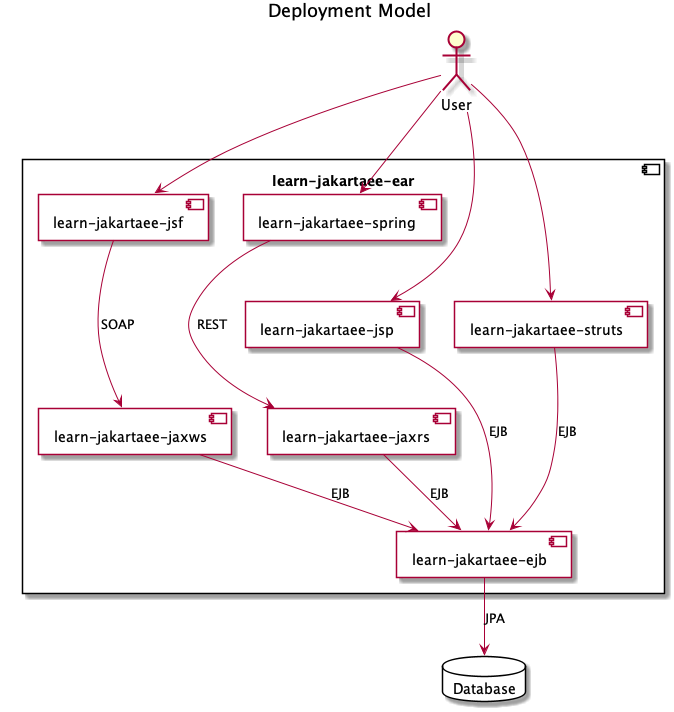
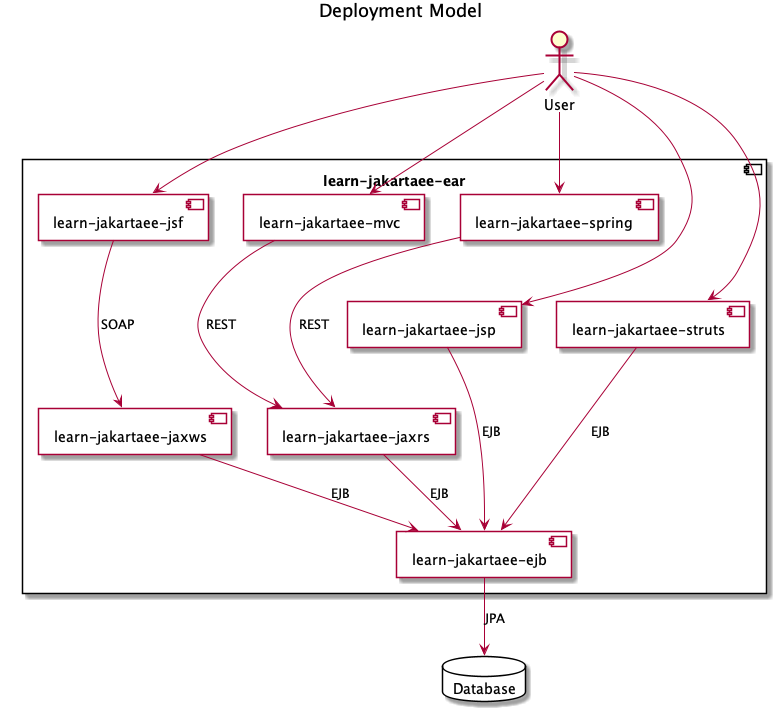
Plan for an mvc project

diff --git a/README.md b/README.md
@@ -21,19 +21,6 @@ Here are the sub projects as shown in this (To-Be) deployment diagram:
 
 ![alt text](learn-jakartaee-docs/deployment.png "Deployment Diagram")
 
-Web Service Examples
-====================
-
-## [`learn-jakartaee-jaxrs`](./learn-jakartaee-jaxrs)
-
-This Microprofile 5 project is a super simple REST API containing just a ping service.
-But at least it shows how Swagger UI is built-in to Open Liberty.
-
-## [`learn-jakartaee-jaxws`](./learn-jakartaee-jaxws)
-
-This project implements a SOAP-based Web Service. It uses a WSDL-first philosphy and
-includes a projects to creates the stubs that is used in server and client project.
-
 Web Application Examples
 ========================
 
@@ -63,6 +50,10 @@ Faces. Likewise, it features:
 3. Layout with navigation bar and side menus using Twitter Bootstrap CSS
 4. JSF Form Validation
 
+## [`learn-jakartaee-mvc`](./learn-jakartaee-mvc)
+
+TODO
+
 ## [`learn-jakartaee-spring`](./learn-jakartaee-spring)
 
 I did not want to include an example application that uses Spring, but in a conversation 
@@ -71,6 +62,19 @@ on the Jakarta EE APIs, and still how easy it is to configure an application wit
 Spring Boot. The `AppInitializer` is discovered by the `SpringServletContainerInitializer`
 which itself is an instance of `ServletContainerInitializer` which is part of the Jakarta 
 EE API. It's actually quite simple.
+
+Web Service Examples
+====================
+
+## [`learn-jakartaee-jaxrs`](./learn-jakartaee-jaxrs)
+
+This Microprofile 5 project is a super simple REST API containing just a ping service.
+But at least it shows how Swagger UI is built-in to Open Liberty.
+
+## [`learn-jakartaee-jaxws`](./learn-jakartaee-jaxws)
+
+This project implements a SOAP-based Web Service. It uses a WSDL-first philosphy and
+includes a projects to creates the stubs that is used in server and client project.
 
 EAR Projects
 ===================
@@ -218,9 +222,9 @@ TODO
 ====
 
 Ideas
-* learn-jakartaee-jpa-ejb
 * learn-jakartaer-ldap-server
 * learn-jakartaee-auth-server
+* learn-jakartaee-mvc
 * learn-jakartaee-jms
 * YAML Config
 * Apache DeltaSpike
